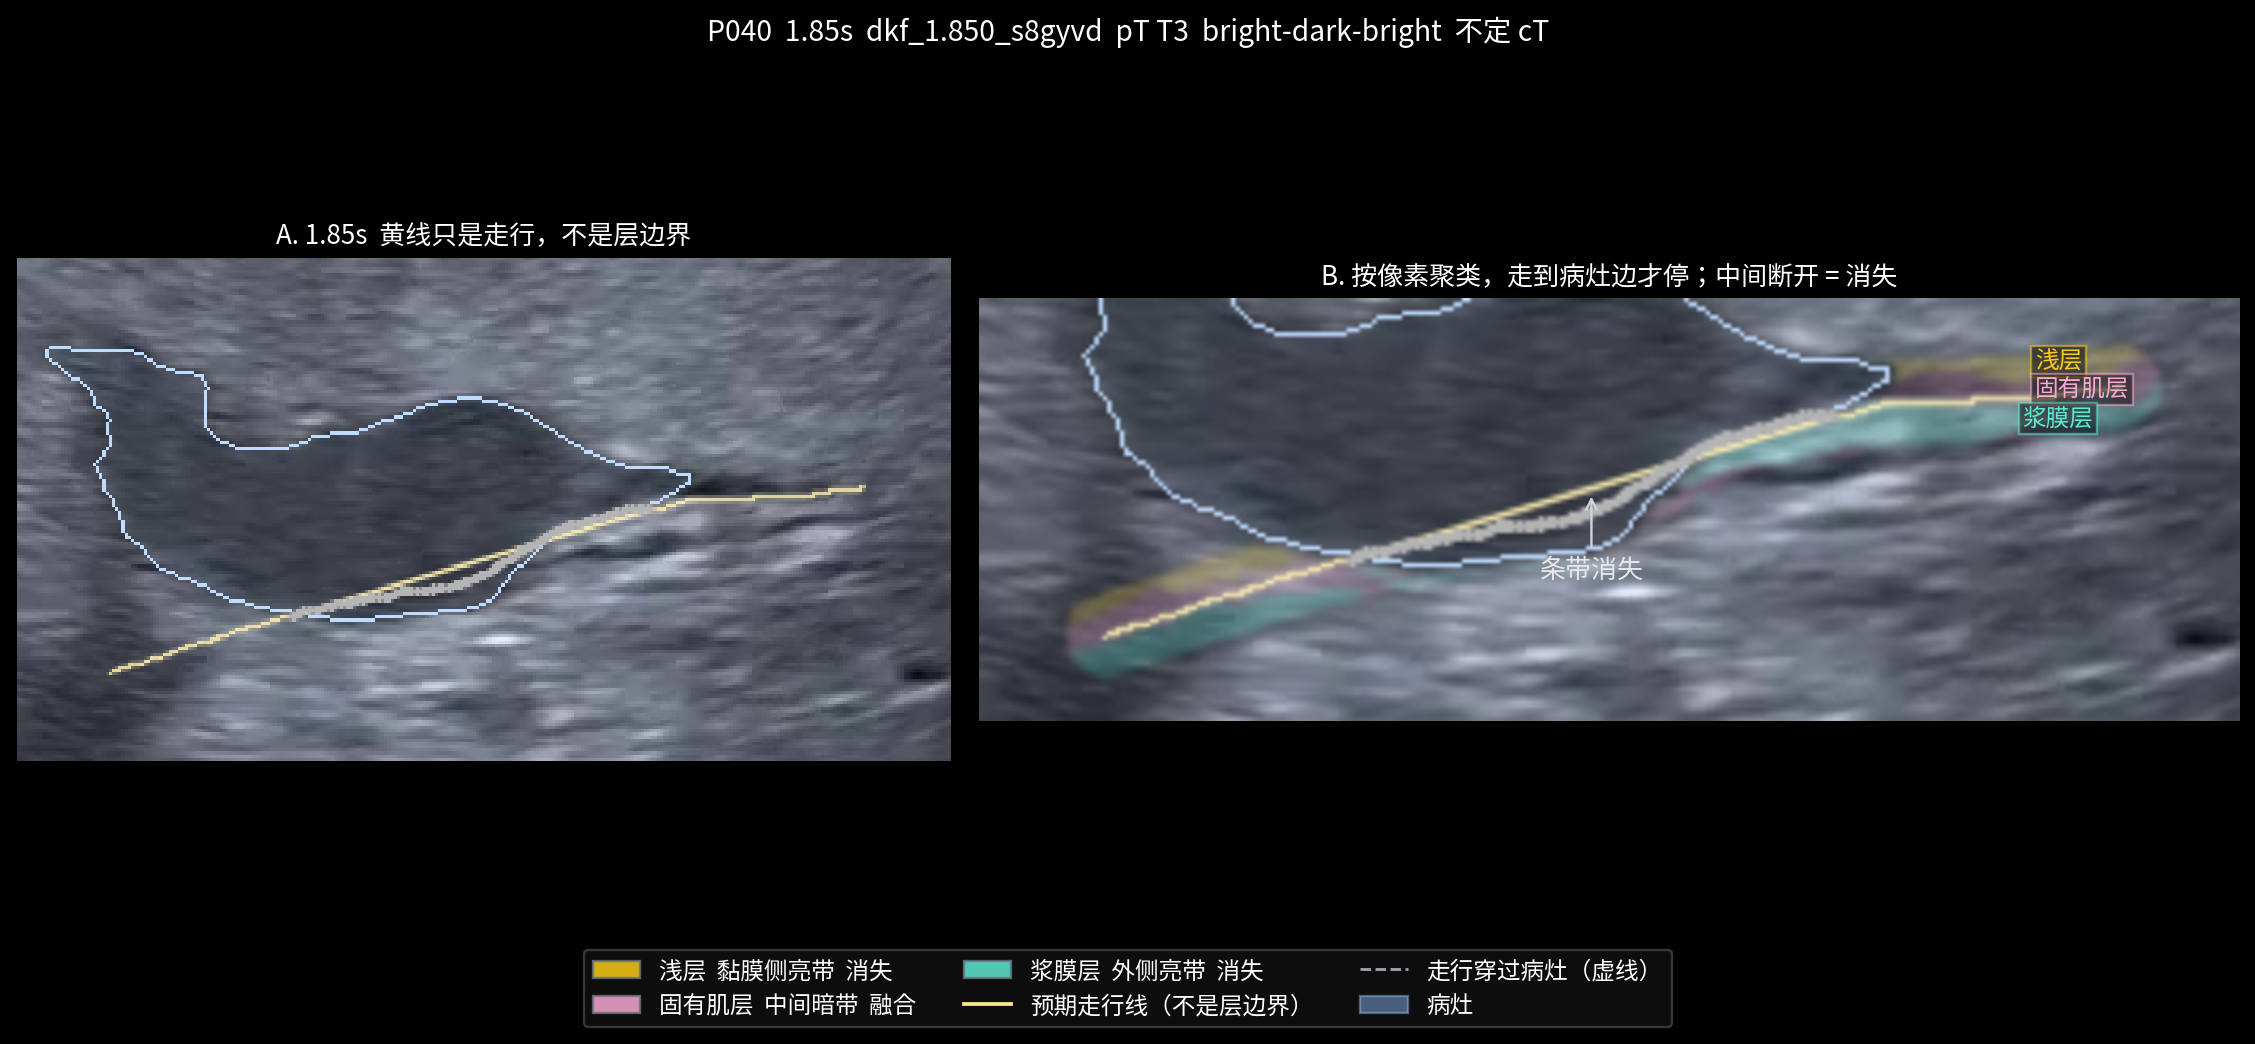
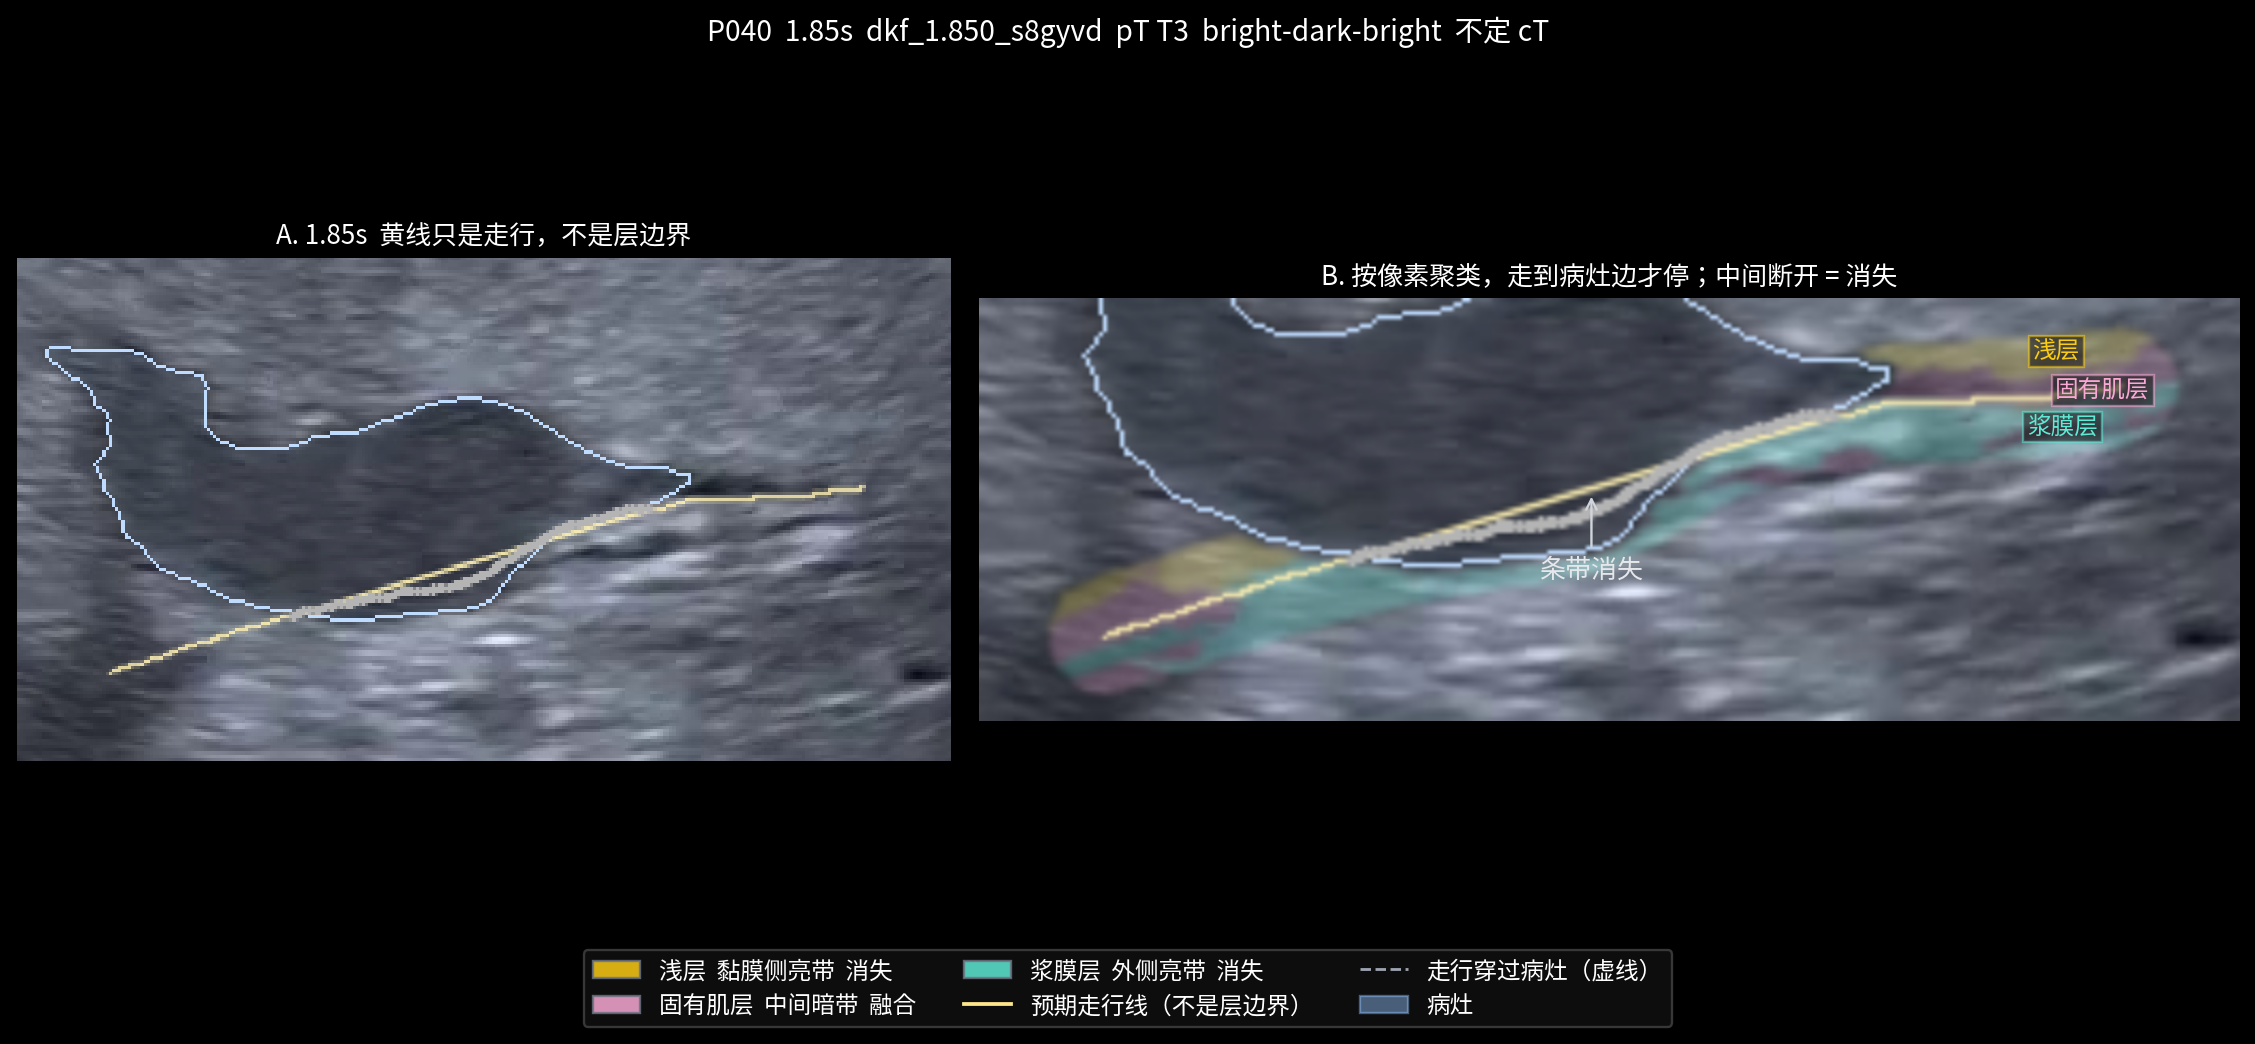
Capture P040's thin bottom hypoechoic strip as muscularis.
The darkest valley and the outer-edge low-echo pixels stay in the dark layer instead of the serosa wash.

Changed region(s): [[0.4656, 0.5211, 0.6829, 0.6743], [0.7761, 0.3065, 0.9623, 0.4598], [0.714, 0.4598, 0.7761, 0.5211]]

diff --git a/scripts/wall_lesion_aware_cluster.py b/scripts/wall_lesion_aware_cluster.py
@@ -515,37 +515,82 @@ def assign_from_across_profile(
     across = samples["across"].astype(np.float32)
     if int(fit.sum()) < MIN_VALID_PIXELS:
         return None
-    edges = np.linspace(-1.05, 1.05, 21)
+    edges = np.linspace(-1.05, 1.05, 29)
     mids = 0.5 * (edges[:-1] + edges[1:])
     prof = np.full((len(mids),), np.nan, dtype=np.float32)
+    dark_p = np.full((len(mids),), np.nan, dtype=np.float32)
     for i, (lo, hi) in enumerate(zip(edges[:-1], edges[1:])):
         sel = fit & (across >= lo) & (across < hi)
         if int(sel.sum()) >= 3:
             prof[i] = float(gray[sel].mean())
+            dark_p[i] = float(np.percentile(gray[sel], 15))
     ok = np.isfinite(prof)
     if int(ok.sum()) < 7:
         return None
-    prof = np.interp(np.arange(len(prof)), np.where(ok)[0], prof[ok]).astype(np.float32)
-    prof = np.convolve(prof, np.ones(3, dtype=np.float32) / 3.0, mode="same")
-    valley = 2 + int(np.argmin(prof[2:-2]))
+    idx = np.arange(len(prof))
+    prof = np.interp(idx, idx[ok], prof[ok]).astype(np.float32)
+    dark_p = np.interp(idx, idx[np.isfinite(dark_p)], dark_p[np.isfinite(dark_p)]).astype(np.float32)
+    # Thin hypoechoic belts show up in the 15th percentile, not the mean.
+    lo_i, hi_i = 4, len(dark_p) - 4
+    dips = [
+        i for i in range(lo_i, hi_i)
+        if dark_p[i] <= dark_p[i - 1] and dark_p[i] <= dark_p[i + 1]
+    ]
+    valley = int(min(dips, key=lambda i: float(dark_p[i]))) if dips else lo_i + int(np.argmin(dark_p[lo_i:hi_i]))
     left = int(np.argmax(prof[: valley + 1]))
     right = valley + int(np.argmax(prof[valley:]))
     if right <= valley or left >= valley:
         return None
-    if float(prof[left]) < float(prof[valley]) + 8.0 and float(prof[right]) < float(prof[valley]) + 8.0:
+    if float(prof[left]) < float(prof[valley]) + 6.0 and float(prof[right]) < float(prof[valley]) + 6.0:
         return None
     cut_l = 0.5 * (float(mids[left]) + float(mids[valley]))
     cut_r = 0.5 * (float(mids[valley]) + float(mids[right]))
     mid_g = 0.5 * (float(prof[valley]) + float(max(prof[left], prof[right])))
+    dark_thr = float(dark_p[valley]) + 10.0
+    valley_ac = float(mids[valley])
     pred = np.where(across < cut_l, 0, np.where(across > cut_r, 2, 1)).astype(np.int32)
     pred = np.where((gray < mid_g) & (across >= cut_l - 0.10) & (across <= cut_r + 0.10), 1, pred)
     pred = np.where((gray >= mid_g) & (across < cut_l), 0, pred)
     pred = np.where((gray >= mid_g) & (across > cut_r), 2, pred)
+    # Keep the thin bottom hypoechoic strip in the dark layer, not the outer bright.
+    pred = np.where((gray <= dark_thr) & (across >= valley_ac - 0.12) & (np.abs(across) <= 0.88), 1, pred)
+    pred = np.where((np.abs(across) > 0.90) & (gray < mid_g), -1, pred)
     labels_all = np.full(len(gray), -1, dtype=np.int32)
-    labels_all[keep] = pred[keep]
+    keep_lab = keep & (pred >= 0)
+    labels_all[keep_lab] = pred[keep_lab]
     if assign_lesion:
         labels_all[~keep] = pred[~keep]
     return labels_all
+
+
+def pin_thin_hypoechoic(
+    samples: dict[str, np.ndarray],
+    keep: np.ndarray,
+    fit: np.ndarray,
+    labels: np.ndarray,
+) -> np.ndarray:
+    """Put the darkest thin echo back on muscularis after the walk drifts."""
+    gray = samples["gray"].astype(np.float32)
+    across = samples["across"].astype(np.float32)
+    if int(fit.sum()) < MIN_VALID_PIXELS:
+        return labels
+    interior = np.abs(across) <= 0.88
+    if int((fit & interior).sum()) < MIN_VALID_PIXELS:
+        return labels
+    dark_cut = float(np.percentile(gray[fit & interior], 22))
+    dark_fit = fit & interior & (gray <= dark_cut)
+    if int(dark_fit.sum()) < 8:
+        return labels
+    valley_ac = float(np.median(across[dark_fit]))
+    dark_thr = float(np.percentile(gray[dark_fit], 80))
+    pin = keep & (gray <= dark_thr) & (np.abs(across - valley_ac) <= 0.30)
+    out = labels.copy()
+    out[pin] = 1
+    outer = keep & (across >= 0.58)
+    if int(outer.sum()) >= 8:
+        outer_thr = min(dark_thr + 8.0, float(np.percentile(gray[outer], 18)))
+        out[outer & (gray <= outer_thr)] = 1
+    return out
 
 
 def assign_walk_until_lesion(
@@ -563,7 +608,7 @@ def assign_walk_until_lesion(
     labels_all = np.full(len(gray), -1, dtype=np.int32)
     if seeded is None:
         return None
-    seed = fit & (seeded >= 0)
+    seed = fit & (seeded >= 0) & (np.abs(across) <= 0.88)
     if int(seed.sum()) < MIN_VALID_PIXELS:
         return None
     g_live = np.array([
@@ -592,8 +637,10 @@ def assign_walk_until_lesion(
         for i in range(3):
             sel = lab == i
             if int(sel.sum()) >= 2:
-                g_live[i] = 0.80 * g_live[i] + 0.20 * float(gray[pix][sel].mean())
-                a_live[i] = 0.88 * a_live[i] + 0.12 * float(across[pix][sel].mean())
+                g_live[i] = 0.88 * g_live[i] + 0.12 * float(gray[pix][sel].mean())
+                if i != 1:
+                    a_live[i] = 0.88 * a_live[i] + 0.12 * float(across[pix][sel].mean())
+    labels_all = pin_thin_hypoechoic(samples, keep, fit, labels_all)
     if assign_lesion:
         rest = ~keep
         if rest.any():

diff --git a/scripts/render_wall_layer_thin_bands.py b/scripts/render_wall_layer_thin_bands.py
@@ -568,7 +568,7 @@ def main() -> int:
     parser = argparse.ArgumentParser(description="Segment lesion on a tight wall ROI, then magnify peri-lesion layers.")
     parser.add_argument("--fixtures", default=str(DEFAULT_FIXTURES))
     parser.add_argument("--out", default=str(DEFAULT_OUT))
-    parser.add_argument("--brush", type=float, default=8.0)
+    parser.add_argument("--brush", type=float, default=12.0)
     parser.add_argument("--case", action="append", dest="cases", help="P040 or CASE-040. Repeatable. Default: all.")
     parser.add_argument("--index", action="store_true", help="Also write a 4-case contact sheet.")
     args = parser.parse_args()

diff --git a/docs/PROJECT_CHANGELOG.md b/docs/PROJECT_CHANGELOG.md
@@ -2,6 +2,14 @@
 
 This file records material project changes, their validation, and deployment state. Do not add patient identifiers, credentials, tokens, private URLs, or sensitive clinical data.
 
+## 2026-08-29, P040 keep the thin bottom hypoechoic belt
+
+- Scope: `scripts/wall_lesion_aware_cluster.py` (profile valley from the 15th percentile), `scripts/render_wall_layer_thin_bands.py --case P040`.
+- Reason: Pink and mint were better, but a thin gray-black low-echo strip under the serosa wash was assigned to the outer bright band.
+- Key changes: Find the dark belt from the darkest thin valley, not the mean profile. Pixels that dark near that valley stay muscularis. Brush 10 px so the strip is inside the corridor. Overlay form unchanged. Does not unlock cT.
+- Validation: Synthetic cluster test; offline P040 re-render.
+- Deployment: none (offline figure).
+
 ## 2026-08-29, P040 walk pixel clusters until the lesion
 
 - Scope: `scripts/wall_lesion_aware_cluster.py` (`assign_walk_until_lesion`), `scripts/render_wall_layer_thin_bands.py --case P040`.
